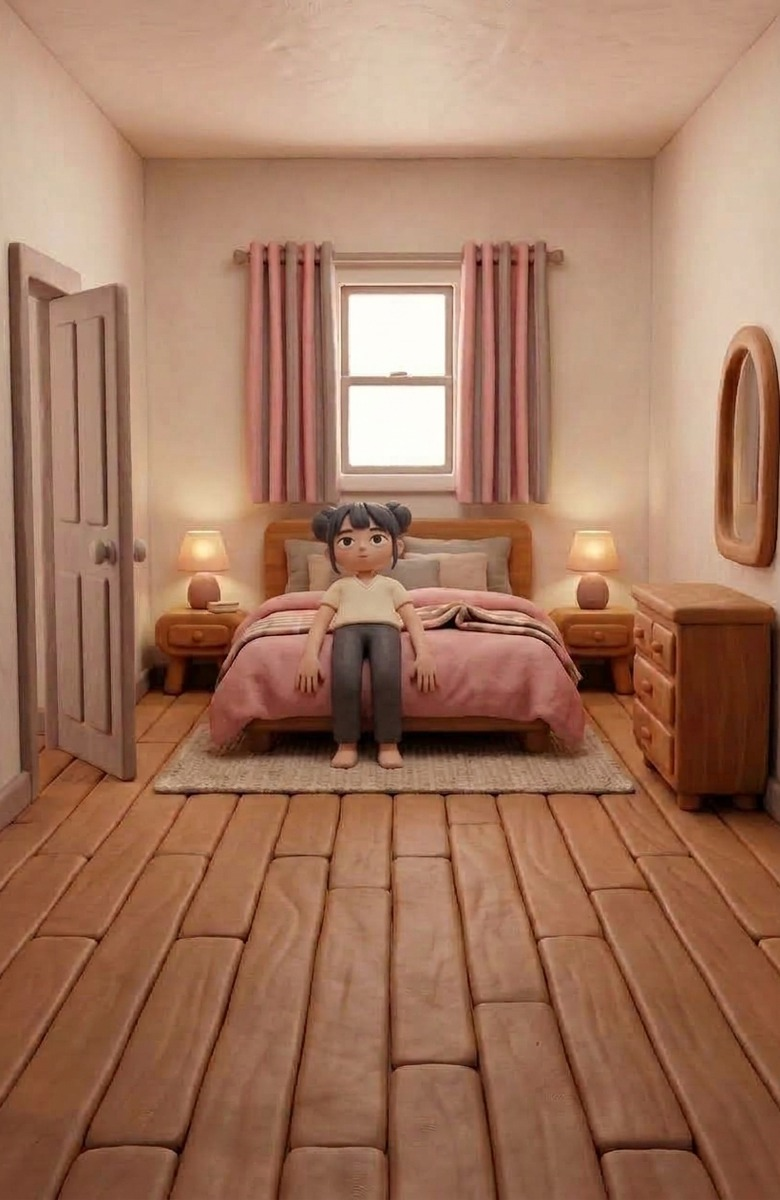
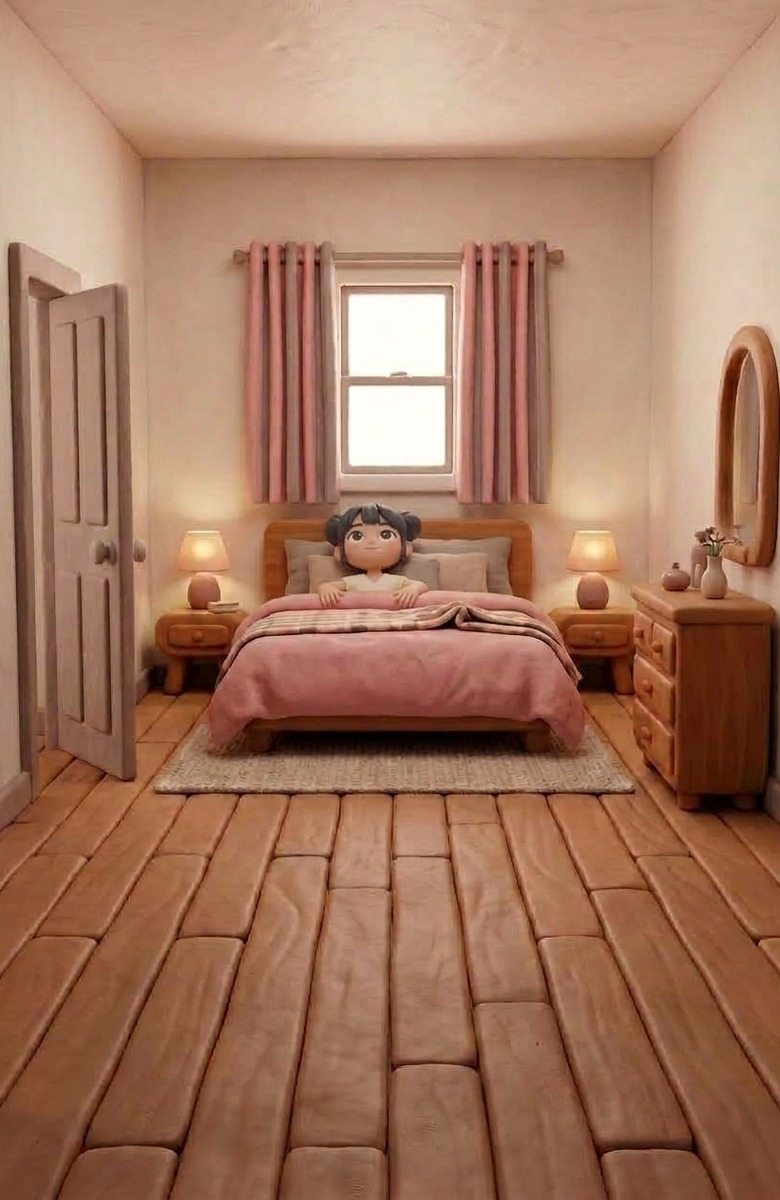
fix(frontend): 눕는 길을 이불 당기기 → 이불 덮고 눈 뜬 채 로 바꾸고, 캐릭터가 안 달라지게 기준 그림을 같이 준다
걸터앉기와 이불 위에 눕기는 정작 '눕는 것'과 거리가 멀어 빼고, 침대에 누운 채 손으로 이불을 끌어 덮는 칸과 이불을
덮고 눈을 뜬 채 있는 칸을 넣었다. 들어갈 때 이 두 칸을 거쳐 잠들고, 나올 땐 거꾸로 되짚는다 (칸마다 620ms).

새 그림은 방 그림과 함께 char-front 를 참고로 넣어 받았다 — 방만 참고로 주면 모델이 얼굴·머리를 제 나름대로 다시
그려 사람이 바뀐 것처럼 보인다.

Changed region(s): [[0.3692, 0.4008, 0.5846, 0.6475], [0.8308, 0.4317, 0.9846, 0.5242], [0.3692, 0.6783, 0.4923, 0.74]]

diff --git a/frontend/scripts/room-build.py b/frontend/scripts/room-build.py
@@ -39,10 +39,10 @@ ROOMS = {
   },
 }
 # 장면 = 방 전체 그림 몇 장 (그 물건 + 사람이 함께 그려져 있다).
-#   enter  들어가는 길 — 서 있다가 바로 누우면 어색하니 걸터앉기 → 이불 위에 눕기를 거친다. 나올 땐 거꾸로 되짚는다.
+#   enter  들어가는 길 — 서 있다가 바로 잠들면 어색하니 이불 당기기 → 이불 덮고 눈 뜬 채를 거친다. 나올 땐 거꾸로 되짚는다.
 #   frames 그 자리에서 도는 칸 (숨쉬기·화장 동작)
 SCENES = {
-  'sleep':  { 'ko': '자기', 'enter': ['{bed}-sit', '{bed}-lie'], 'enterMs': 520,
+  'sleep':  { 'ko': '자기', 'enter': ['{bed}-pull', '{bed}-awake'], 'enterMs': 620,
               'frames': ['{room}-sleeping', '{scene}-sleep-2'], 'interval': 1400 },
   'makeup': { 'ko': '화장', 'frames': ['{scene}-makeup-1', '{scene}-makeup-2', '{scene}-makeup-3'], 'interval': 800 },
 }
